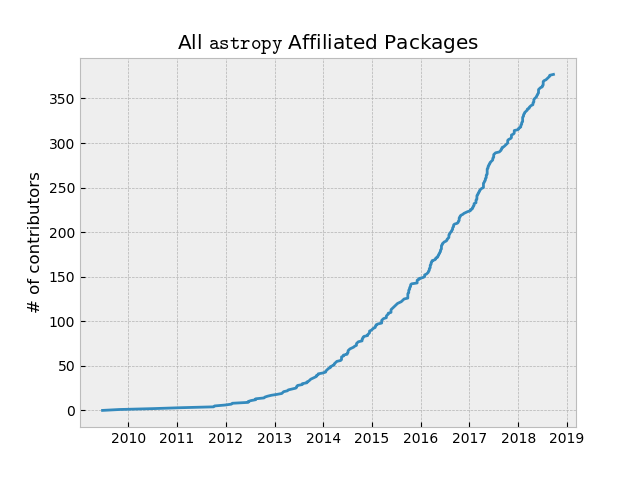
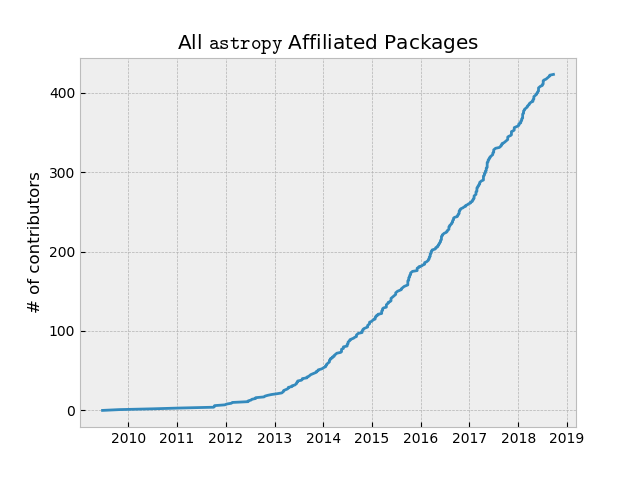
Added astropy core package to list of packages, since it wasnt included in the affiliated packages list.

diff --git a/visualizations_demographics/contributors_plots.py b/visualizations_demographics/contributors_plots.py
@@ -186,6 +186,11 @@ def get_package_data():
         package_data = json.loads(url.read().decode())
         package_data = package_data['packages']
 
+        # Add in astropy core package, which isn't in the JSON file
+        package_data.append({
+            'name':'astropy',
+            'repo_url': 'https://github.com/astropy/astropy'})
+
         return package_data
 
 
